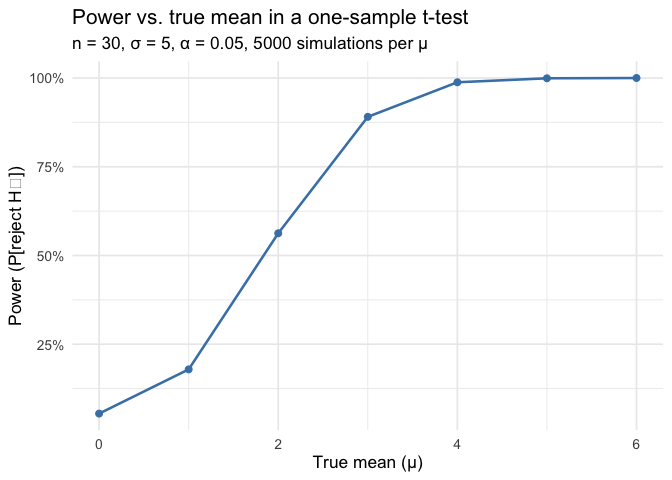
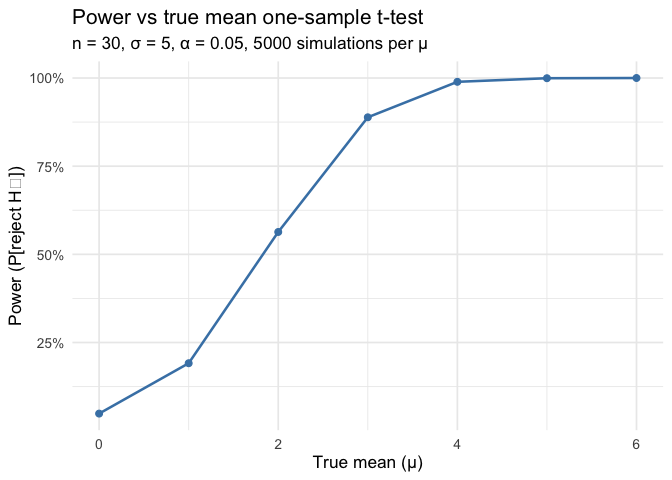
add functions

diff --git a/hw5_xw3107.md b/hw5_xw3107.md
@@ -4,12 +4,13 @@ hw5_xw3107
 
 ## Problem 1 — The birthday problem
 
-We estimate, by simulation, the probability that a group of size $n$
-(with birthdays i.i.d. Uniform over 365 days, no leap years) has **at
-least one shared birthday**.
+We estimate the probability that a group of size $n$ (with birthdays
+i.i.d. Uniform over 365 days, no leap years) has **at least one shared
+birthday**.
 
 ``` r
 # packages
+library(janitor) 
 library(tidyverse)
 library(scales)
 library(knitr)
@@ -32,7 +33,7 @@ sim_results =
     n_grid,
     \(n) tibble(
       n = n,
-      # run the Bernoull
+      # run the Bernoulli
       prob_shared = mean(replicate(reps, same_birthdat(n)))
     )
   )
@@ -98,7 +99,7 @@ Plus, the probability exceeds 50% at only 23 people, illustrating how
 quickly collisions occur in the birthday problem despite there are 365
 days a year.
 
-## Problem 2 — Exploring power in a one-sample t-test
+## Problem 2
 
 We explore how the **power** of a one-sample *t*-test changes with the
 true mean $\mu$, holding the sample size and variance constant.
@@ -110,11 +111,8 @@ true mean $\mu$, holding the sample size and variance constant.
 3.  Record the sample mean $\hat{\mu}$ and the *p*-value.
 
 ``` r
-library(tidyverse)
 library(broom)
 library(knitr)
-
-set.seed(2025)
 
 # import parameters
 n = 30
@@ -122,7 +120,7 @@ sigma = 5
 mu_values = 0:6
 n_sims = 5000
 
-# helper: run one t-test and tidy output 
+# helper function run one t-test and tidy output 
 simulate_ttest = function(mu) {
   x = rnorm(n, mean = mu, sd = sigma)
   tidy(t.test(x, mu = 0)) |>
@@ -139,15 +137,15 @@ glimpse(sim_results)
 
     ## Rows: 35,000
     ## Columns: 10
-    ## $ estimate    <dbl> 1.03395167, 0.31433950, -0.78800157, -1.11821754, -1.68147…
-    ## $ statistic   <dbl> 1.16014918, 0.35644247, -0.79259034, -1.23962116, -2.06818…
-    ## $ p.value     <dbl> 0.25545041, 0.72408957, 0.43445299, 0.22505361, 0.04764436…
+    ## $ estimate    <dbl> -0.90873650, -0.13034448, 0.23803987, -0.44170271, 1.12194…
+    ## $ statistic   <dbl> -0.80417733, -0.12874659, 0.25958330, -0.55706616, 1.49057…
+    ## $ p.value     <dbl> 0.42783797, 0.89844692, 0.79701921, 0.58175655, 0.14686970…
     ## $ parameter   <dbl> 29, 29, 29, 29, 29, 29, 29, 29, 29, 29, 29, 29, 29, 29, 29…
-    ## $ conf.low    <dbl> -0.7888041, -1.4893077, -2.8213902, -2.9631454, -3.3442901…
-    ## $ conf.high   <dbl> 2.85670743, 2.11798670, 1.24538704, 0.72671036, -0.0186629…
+    ## $ conf.low    <dbl> -3.2198870, -2.2009577, -1.6374513, -2.0633834, -0.4174804…
+    ## $ conf.high   <dbl> 1.4024140, 1.9402688, 2.1135311, 1.1799780, 2.6613701, 0.2…
     ## $ method      <chr> "One Sample t-test", "One Sample t-test", "One Sample t-te…
     ## $ alternative <chr> "two.sided", "two.sided", "two.sided", "two.sided", "two.s…
-    ## $ mu_hat      <dbl> 1.03395167, 0.31433950, -0.78800157, -1.11821754, -1.68147…
+    ## $ mu_hat      <dbl> -0.90873650, -0.13034448, 0.23803987, -0.44170271, 1.12194…
     ## $ mu_true     <int> 0, 0, 0, 0, 0, 0, 0, 0, 0, 0, 0, 0, 0, 0, 0, 0, 0, 0, 0, 0…
 
 ### power analysis
@@ -165,7 +163,7 @@ ggplot(power_df, aes(x = mu_true, y = power)) +
   labs(
     x = "True mean (μ)",
     y = "Power (P[reject H₀])",
-    title = "Power vs. true mean in a one-sample t-test",
+    title = "Power vs true mean one-sample t-test",
     subtitle = paste0("n = ", n, ", σ = ", sigma, ", α = 0.05, ", n_sims, " simulations per μ")
   ) +
   theme_minimal(base_size = 13)
@@ -224,8 +222,6 @@ state, and case disposition.
 ### Import and describe the raw data
 
 ``` r
-library(tidyverse)
-library(janitor)
 library(broom)
 
 # read directly from GitHub 
